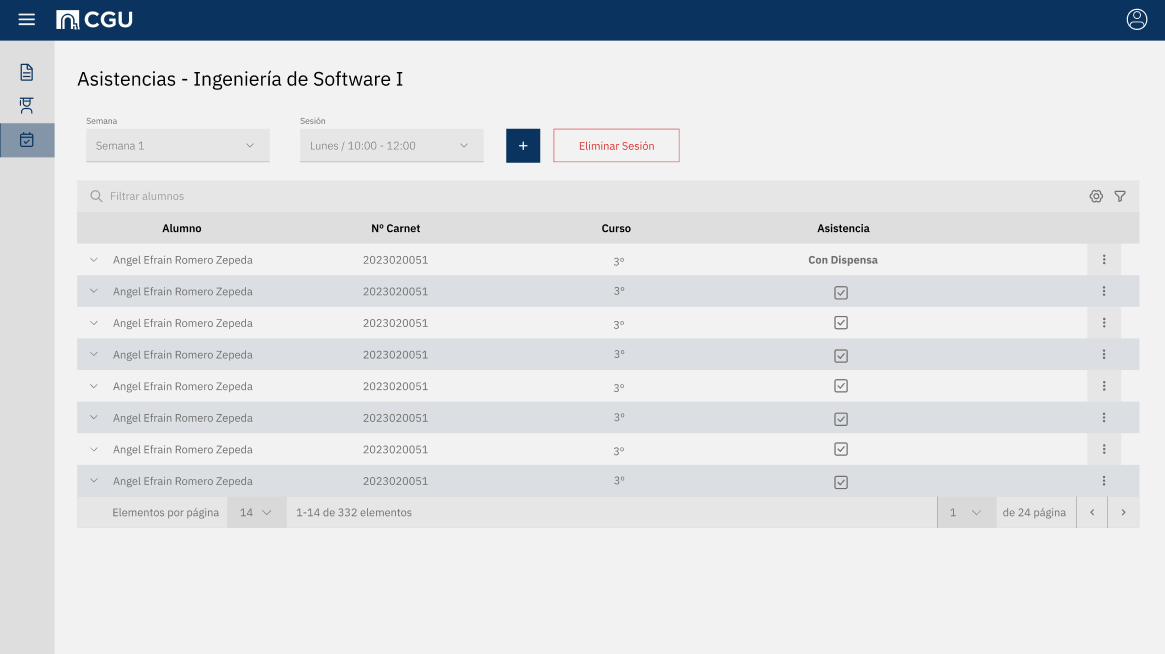
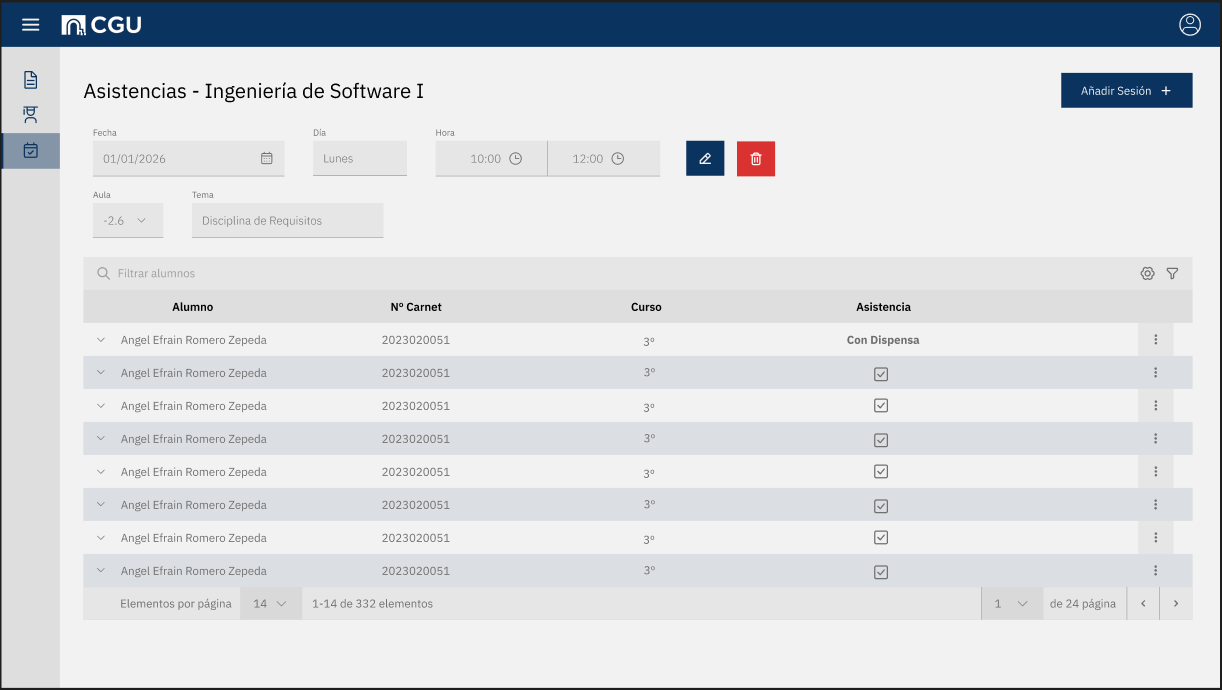
Prototipados para Director De Grado completos

diff --git a/documents/CasosDeUso/Prototipos/README.md b/documents/CasosDeUso/Prototipos/README.md
@@ -49,9 +49,51 @@
 
 ---
 
+## Director De Grado
+
+#### Consultar Solicitudes Dispensas 
+
+<p align="center">
+  <img src="./consultarSolicitudesDispensasDirector.png">
+</p>
+
+[![](https://img.shields.io/badge/-Ver_Casos_de_Uso-0D47A1?style=flat&logo=openstreetmap&logoColor=white)](/documents/CasosDeUso/README.MD#DirectorDeGrado) [![](https://img.shields.io/badge/-Carpeta-0D47A1?style=flat&logo=openstreetmap&logoColor=white)](.) [![](https://img.shields.io/badge/-Navbar-0D47A1?style=flat&logo=openstreetmap&logoColor=white)](#Navbar)
+
+#### Editar Solicitud Dispensas 
+
+<p align="center">
+  <img src="./editarSolicitudDispensaDirector.png">
+</p>
+
+[![](https://img.shields.io/badge/-Ver_Casos_de_Uso-0D47A1?style=flat&logo=openstreetmap&logoColor=white)](/documents/CasosDeUso/README.MD#DirectorDeGrado) [![](https://img.shields.io/badge/-Carpeta-0D47A1?style=flat&logo=openstreetmap&logoColor=white)](.) [![](https://img.shields.io/badge/-Navbar-0D47A1?style=flat&logo=openstreetmap&logoColor=white)](#Navbar)
+
+#### Guardar Solicitud Dispensa
+
+<p align="center">
+  <img src="./guardarSolicitudDispensaDirector.png">
+</p>
+
+<p align="center">
+  <img src="./confirmacionGuardarSolicitudDispensaDirector.png">
+</p>
+
+[![](https://img.shields.io/badge/-Ver_Casos_de_Uso-0D47A1?style=flat&logo=openstreetmap&logoColor=white)](/documents/CasosDeUso/README.MD#DirectorDeGrado) [![](https://img.shields.io/badge/-Carpeta-0D47A1?style=flat&logo=openstreetmap&logoColor=white)](.) [![](https://img.shields.io/badge/-Navbar-0D47A1?style=flat&logo=openstreetmap&logoColor=white)](#Navbar)
+
+---
+
 <a name="Profesor"></a>
 
 ## Profesor
+
+<a name="PrototipoConsultarListasAlumnos"></a>
+
+#### Consultar Listas de Alumnos
+
+<p align="center">
+  <img src="./consultarListasAlumnos.png">
+</p>
+
+[![](https://img.shields.io/badge/-Ver_Casos_de_Uso-0D47A1?style=flat&logo=openstreetmap&logoColor=white)](/documents/CasosDeUso/README.MD#Profesor) [![](https://img.shields.io/badge/-Carpeta-0D47A1?style=flat&logo=openstreetmap&logoColor=white)](.) [![](https://img.shields.io/badge/-Navbar-0D47A1?style=flat&logo=openstreetmap&logoColor=white)](#Navbar)
 
 ### Asistencias
 
@@ -71,6 +113,16 @@
 
 <p align="center">
   <img src="./crearSesionClase.png">
+</p>
+
+[![](https://img.shields.io/badge/-Ver_Casos_de_Uso-0D47A1?style=flat&logo=openstreetmap&logoColor=white)](/documents/CasosDeUso/README.MD#Profesor) [![](https://img.shields.io/badge/-Carpeta-0D47A1?style=flat&logo=openstreetmap&logoColor=white)](.) [![](https://img.shields.io/badge/-Navbar-0D47A1?style=flat&logo=openstreetmap&logoColor=white)](#Navbar)
+
+<a name="PrototipoEditarSesionClase"></a>
+
+#### Editar Sesión de Clase
+
+<p align="center">
+  <img src="./editarSesionClase.png">
 </p>
 
 [![](https://img.shields.io/badge/-Ver_Casos_de_Uso-0D47A1?style=flat&logo=openstreetmap&logoColor=white)](/documents/CasosDeUso/README.MD#Profesor) [![](https://img.shields.io/badge/-Carpeta-0D47A1?style=flat&logo=openstreetmap&logoColor=white)](.) [![](https://img.shields.io/badge/-Navbar-0D47A1?style=flat&logo=openstreetmap&logoColor=white)](#Navbar)
